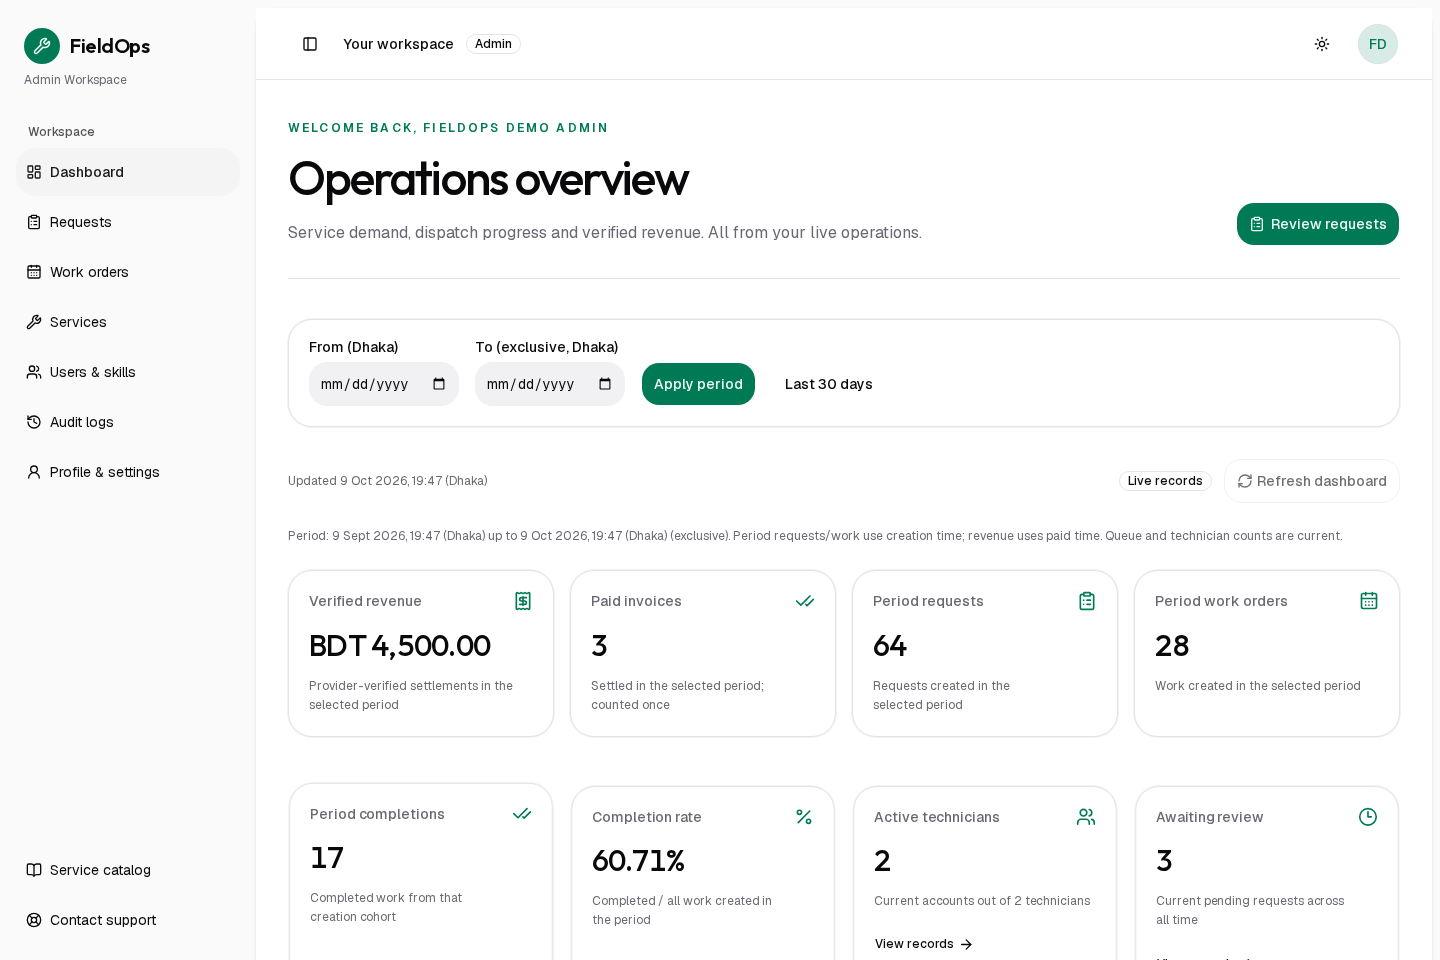
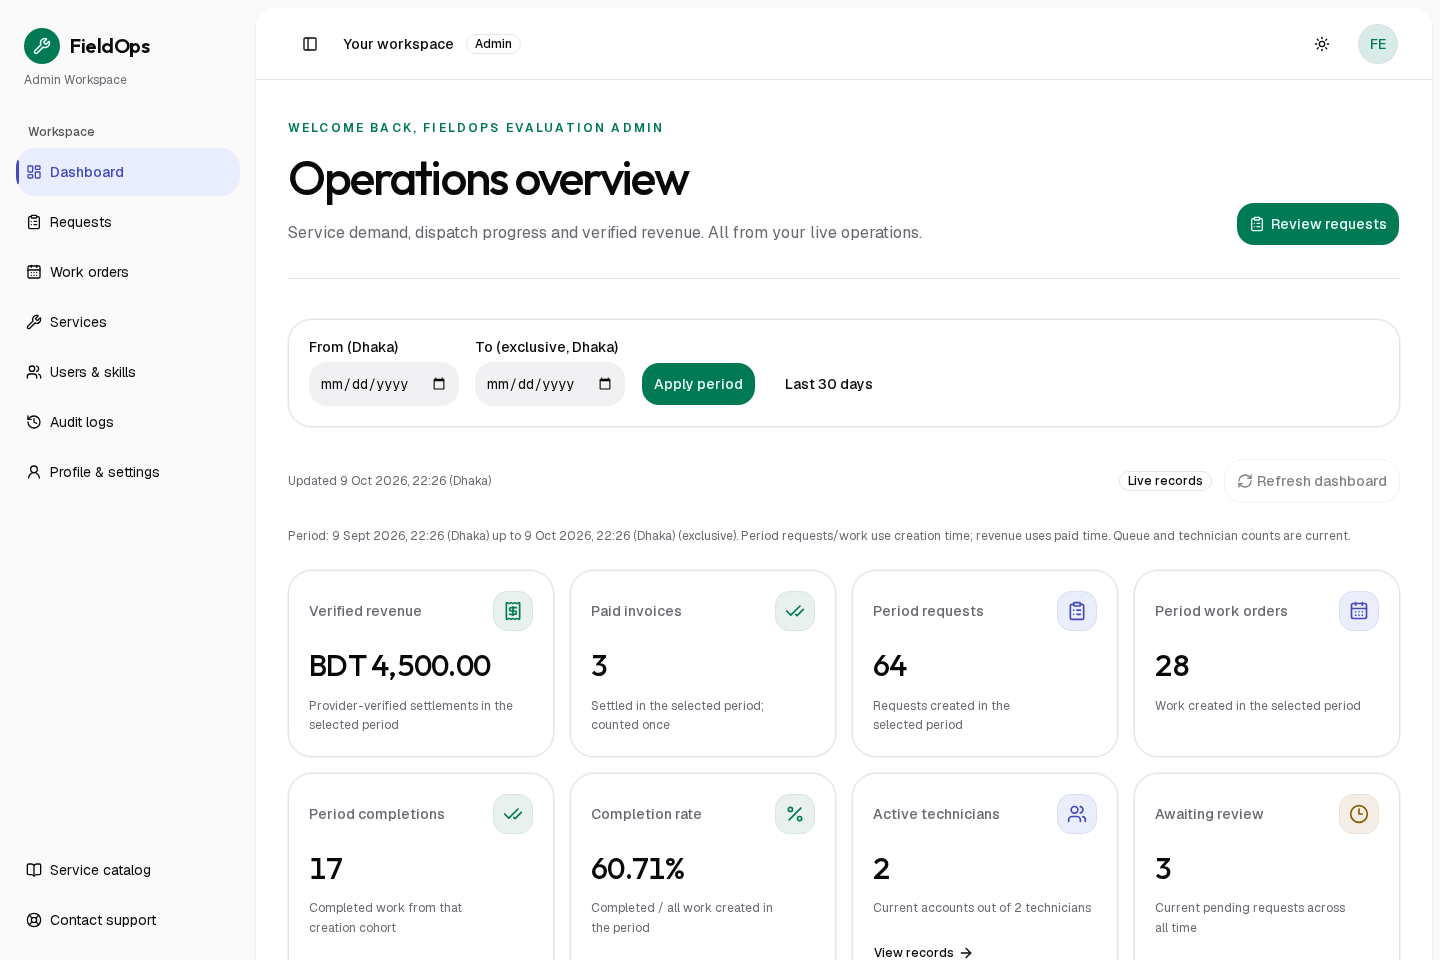
docs: refresh dashboard release proof and current UI preview

diff --git a/docs/dashboard-motion.md b/docs/dashboard-motion.md
@@ -18,6 +18,32 @@ No additional scrolling or animation dependency is installed.
 - GSAP contexts own plugin/timeline disposal. Observers and listeners are removed on
   unmount or media-preference changes; native content styles are restored.
 
+## Continuous reading surface
+
+The shadcn `SidebarInset` remains the main landmark and layout sibling of the sidebar.
+While smoothing is active, the fixed viewport leaves this outer inset only one viewport
+tall. Painting its shadow there produces a false page-ending edge while records continue
+below it.
+
+The full-height reading skin now belongs to `.workspace-scroll-surface` inside the moved
+content. Only the outer inset's background and shadow are suppressed in smooth mode.
+Its supported native styling returns automatically on narrow, touch or reduced-motion
+layouts. Rounded corners appear at the actual content boundary; the header/sidebar and
+portalled controls remain stationary.
+
+## Navigation and semantic accents
+
+All workspace and footer links use the supported shadcn `SidebarMenuButton`. Hover and
+keyboard focus animate the icon and label inside an unchanged hit target. Background,
+focus-ring and active-rail transitions share short timings; motion preferences disable
+movement. The selected route retains `aria-current`, weight and a visible rail.
+
+Emerald remains the brand/success accent. Theme-aware indigo marks informational metrics,
+active work and navigation; amber marks review/departure waiting states. Cancellation
+uses a neutral historical tone, while rejection remains adverse. Metric icon surfaces,
+status badges and chart bars use these same meanings in both themes. Typed metric tones
+supplement exact labels and values; colors never provide the only status information.
+
 ## Visual behavior
 
 Metrics and chart cards enter in short groups. Recent-record cards and their semantic
@@ -44,11 +70,11 @@ Public presentation and both-theme role accessibility scenarios guard the shared
 These checks use dedicated backend accounts, reads and session operations. They do not
 create product records or certify performance on actual Safari/mobile hardware.
 
-The local production baseline passed 13/14 scenarios. The failing administrator history
-check led to explicit per-route restoration; its follow-up also waits for the End scroll
-to settle before leaving the dashboard. All three role scenarios have passing follow-up
-results. Strict checks and the default production build pass. Hosted acceptance is recorded
-below for the exact CI-verified revision.
+The refined local production preview passed **14/14 scenarios in 3.1 minutes**. Strict
+checks and the default production build pass using Node 24. The local unit run passed 179
+tests and skipped six Redis coordination checks; release CI provisions Redis for those
+checks. Browser assertions cover the reading skin beyond the viewport, its coverage of
+the last visit link and stationary link hit targets during actual hover/focus feedback.
 
 ## Published release and hosted acceptance
 
@@ -56,9 +82,9 @@ Verified October 9, 2026.
 
 | Artifact        | Verified evidence                                                                                                                                         |
 | --------------- | --------------------------------------------------------------------------------------------------------------------------------------------------------- |
-| Frontend source | `fede1418ebac27c581b6cc9b2bba3b7a0622d958`                                                                                                                |
-| CI              | [Passing release checks](https://github.com/rafiferdos/fieldops/actions/runs/37952043872): 185 tests, strict type/lint/format checks and production build |
-| Deployment      | Vercel `dpl_5ReJDbNxGnxoHM7E65nJU4eQWbL5`, READY, exact source revision, Node 24, Singapore functions                                                     |
+| Frontend source | `5a755d196f913d184794af109d164ddfd88a3b40`                                                                                                                |
+| CI              | [Passing release checks](https://github.com/rafiferdos/fieldops/actions/runs/37958076116): 185 tests, strict type/lint/format checks and production build |
+| Deployment      | Vercel `dpl_HkgxmvmNGDyVABs8f3xcGPnsBFRg`, READY, exact source revision, Node 24, Singapore functions                                                     |
 | Application     | [fieldops-rafiferdos.vercel.app](https://fieldops-rafiferdos.vercel.app)                                                                                  |
 
 The canonical production application passed **14/14 Chromium scenarios in 3.5 minutes**,
@@ -67,6 +93,8 @@ both-theme WCAG A/AA accessibility and all three real role workspaces.
 
 - Wheel input updates the native scroll position and the smoothed surface settles to it.
 - Fixed-header geometry, expanded/collapsed sidebar spacing and lower-page controls remain usable.
+- The reading surface extends below the viewport and covers the last visit link without a false inset shadow.
+- Sidebar hover/focus animates within stable hit targets; reduced motion removes icon movement.
 - Reduced-motion changes and narrow layouts remove smooth transforms; the mobile shadcn Sheet works.
 - New queue routes show their headings; administrator Back/Forward restores the prior route position.
 - Portalled sign-out dialogs stay outside the transformed content and lock native scrolling.
@@ -75,5 +103,6 @@ both-theme WCAG A/AA accessibility and all three real role workspaces.
 
 Only an optional dedicated-demo aggregate screenshot is captured; traces and video remain
 disabled. These scenarios use reads and session operations, creating no product records.
+The README image is refreshed from this release's actual live administrator demo overview.
 The backend repository remains unchanged. Documentation-only follow-ups do not alter the
 deployed application source. The hardware and performance limits described above still apply.
